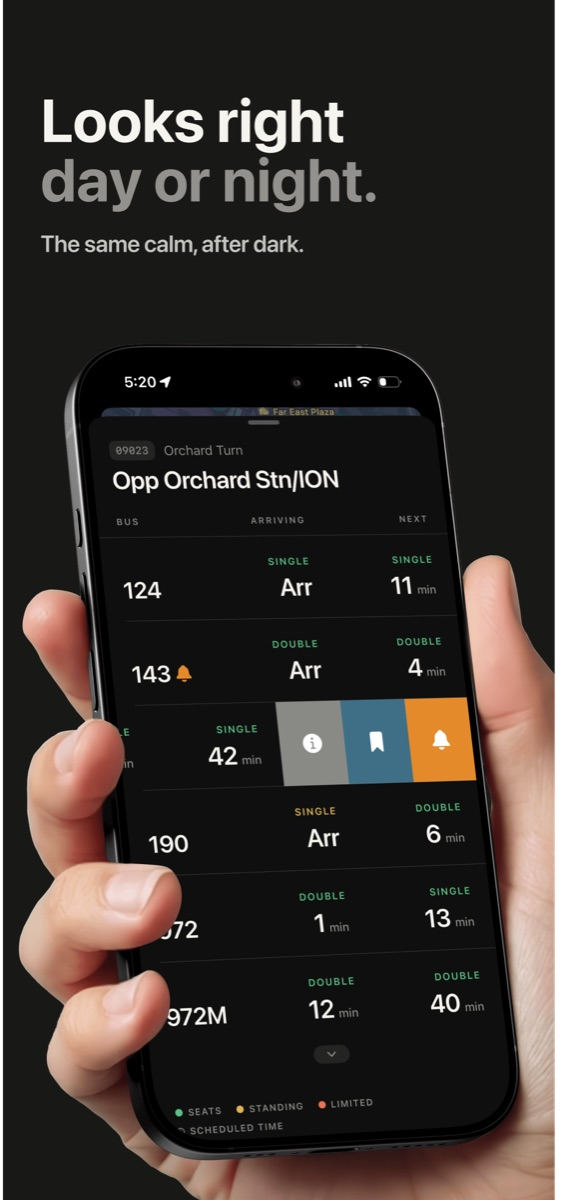
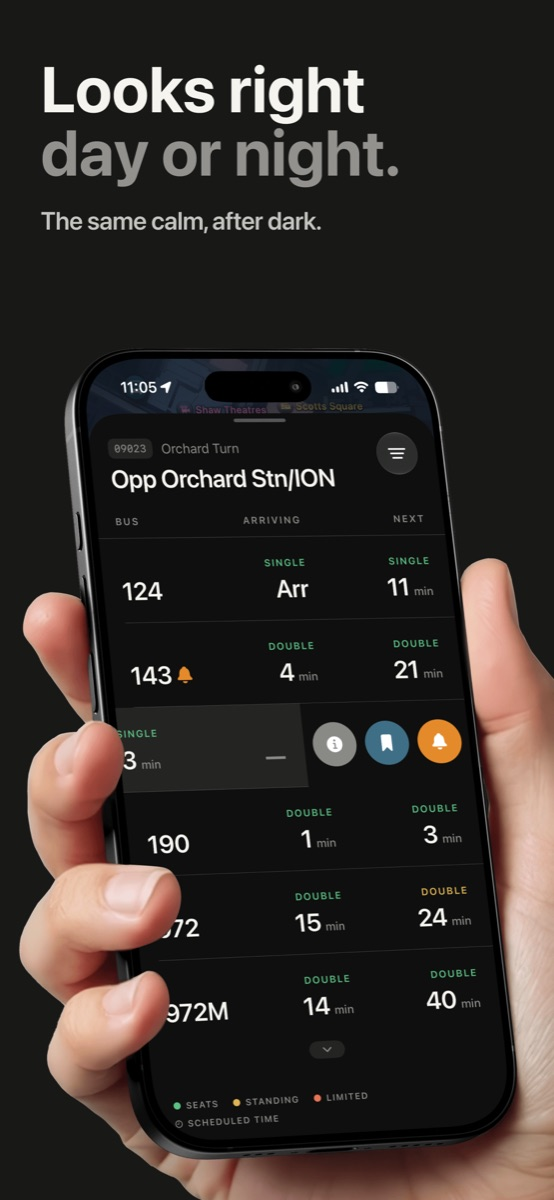
Refactor code structure for improved readability and maintainability

diff --git a/kongqi/index.html b/kongqi/index.html
@@ -3,29 +3,285 @@
 <head>
   <meta charset="UTF-8" />
   <meta name="viewport" content="width=device-width, initial-scale=1.0" />
-  <title>KongQi App</title>
+  <meta name="description" content="Singapore's haze readings, without the clutter. The latest PSI and PM2.5 for your part of Singapore, right on your Home Screen and Lock Screen." />
+  <title>KongQi – Singapore Air Quality</title>
   <link rel="icon" href="/kongqi/favicon.png" type="image/png" />
   <style>
-    html, body {
-      margin: 0;
-      padding: 0;
-      height: 100%;
-      overflow: hidden;
+    /* Tokens mirror jinhoe.com (assets/css/main.min.css) */
+    :root {
+      --c-bg: hsl(0, 0%, 100%);
+      --c-bg-light: hsl(0, 0%, 97%);
+      --c-tile: hsl(0, 0%, 89%);
+      --c-high: hsla(210, 100%, 60%, 0.3);
+      --c-high-light: hsla(210, 100%, 60%, 0.8);
+      --c-text: hsl(0, 0%, 25%);
+      --c-text-strong: hsl(0, 0%, 15%);
+      --c-text-mid: hsl(0, 0%, 35%);
+      --f-family: "Iowan Old Style", Palatino, "Palatino Linotype", "Palatino LT STD", Garamond, Baskerville, "Hoefler Text", "Times New Roman", serif;
+      --f-size: 16px;
+      --f-lineheight: 27px;
     }
 
-    iframe {
-      border: none;
-      width: 100%;
-      height: 100%;
+    @media (min-width: 500px) {
+      :root { --f-size: 17px; --f-lineheight: 32px; }
+    }
+
+    @media (min-width: 768px) {
+      :root { --f-size: 18px; --f-lineheight: 34px; }
+    }
+
+    @media (prefers-color-scheme: dark) {
+      :root {
+        --c-bg: hsl(0, 0%, 10%);
+        --c-bg-light: hsl(0, 0%, 15%);
+        --c-tile: hsl(0, 0%, 22%);
+        --c-text: hsl(0, 0%, 82%);
+        --c-text-strong: hsl(0, 0%, 92%);
+        --c-text-mid: hsl(0, 0%, 62%);
+      }
+    }
+
+    /* Like jinhoe.com, 1rem = one line of body text */
+    html {
+      font-size: var(--f-lineheight);
+    }
+
+    *,
+    *::before,
+    *::after {
+      box-sizing: border-box;
+      margin: 0;
+      padding: 0;
+      -webkit-font-smoothing: antialiased;
+      -moz-osx-font-smoothing: grayscale;
+    }
+
+    ::selection {
+      background: var(--c-high);
+    }
+
+    :focus-visible {
+      outline: 2px solid var(--c-high-light);
+      outline-offset: 2px;
+      border-radius: 2px;
+    }
+
+    body {
+      padding: 3rem 1rem 1.5rem;
+      background: var(--c-bg);
+      color: var(--c-text);
+      font-family: var(--f-family);
+      font-size: var(--f-size);
+      line-height: var(--f-lineheight);
+    }
+
+    main {
+      max-width: 640px;
+      margin: 0 auto;
+    }
+
+    a {
+      color: inherit;
+      text-decoration: none;
+      transition: color 300ms ease-out;
+    }
+
+    a:hover {
+      color: var(--c-text-mid);
+    }
+
+    h1,
+    h2 {
+      color: var(--c-text-strong);
+      font-weight: 600;
+    }
+
+    h1 {
+      font-size: calc(var(--f-size) * 1.6);
+      line-height: 1.3rem;
+    }
+
+    h2 {
+      font-size: calc(var(--f-size) * 1.3);
+      line-height: 1.3;
+      margin-bottom: 0.5rem;
+    }
+
+    section {
+      margin-top: 2.5rem;
+    }
+
+    section p + p {
+      margin-top: 0.5rem;
+    }
+
+    section ul {
+      padding-left: 1.25em;
+    }
+
+    /* Header */
+    .hero {
+      display: flex;
+      flex-wrap: wrap;
+      align-items: center;
+      gap: 24px;
+    }
+
+    .hero .icon {
+      flex: 0 0 112px;
+      width: 112px;
+      height: 112px;
+      border-radius: 25px;
+      background: var(--c-tile);
+    }
+
+    .hero .body {
+      flex: 1 1 280px;
+      min-width: 0;
+    }
+
+    .tagline {
+      color: var(--c-text-mid);
+    }
+
+    /* Screenshots: swipeable row */
+    .shots {
+      display: flex;
+      gap: 12px;
+      margin-top: 2.5rem;
+      overflow-x: auto;
+      scroll-snap-type: x mandatory;
+      scrollbar-width: none;
+      list-style: none;
+    }
+
+    .shots::-webkit-scrollbar {
+      display: none;
+    }
+
+    .shots li {
+      flex: 0 0 auto;
+      scroll-snap-align: start;
+    }
+
+    .shots img {
       display: block;
+      width: 180px;
+      height: auto;
+      aspect-ratio: 552 / 1200;
+      border-radius: 16px;
+      background: var(--c-bg-light);
+    }
+
+    .note {
+      color: var(--c-text-mid);
+      font-size: calc(var(--f-size) * 0.889);
+    }
+
+    .note a {
+      text-decoration: underline;
+      text-underline-offset: 3px;
+    }
+
+    /* App links + site footer */
+    .app-links {
+      display: flex;
+      flex-wrap: wrap;
+      gap: 24px;
+      margin-top: 3rem;
+    }
+
+    .app-links a {
+      display: inline-flex;
+      align-items: center;
+      min-height: 44px;
+    }
+
+    footer {
+      margin-top: 4rem;
+      text-align: center;
+    }
+
+    footer a {
+      margin: 0 0.5rem;
+      font-size: calc(var(--f-size) * 0.889);
+      line-height: 0.8rem;
     }
   </style>
 </head>
 <body>
-  <iframe
-    src="https://jinhoe.notion.site/ebd//3f645d68653180ee816ccf8648d78d86"
-    frameborder="0"
-    allowfullscreen
-  ></iframe>
+  <main>
+    <header class="hero">
+      <img class="icon" src="/kongqi/icon.png" alt="KongQi app icon" width="112" height="112" />
+      <div class="body">
+        <h1>KongQi</h1>
+        <p class="tagline">Singapore's haze readings, without the clutter.</p>
+      </div>
+    </header>
+
+    <ul class="shots" aria-label="Screenshots">
+      <li><img src="/kongqi/screenshots/1.jpg" alt="Singapore's air, at a glance. Hourly PSI and PM2.5 from NEA, for where you are." width="552" height="1200" /></li>
+      <li><img src="/kongqi/screenshots/2.jpg" alt="Right on your Home Screen. Your region, or wherever you are." width="552" height="1200" loading="lazy" /></li>
+      <li><img src="/kongqi/screenshots/3.jpg" alt="Even on your Lock Screen. Know before you step outside." width="552" height="1200" loading="lazy" /></li>
+      <li><img src="/kongqi/screenshots/4.jpg" alt="Five regions. Twenty-four hours. Tap any region to see its trend." width="552" height="1200" loading="lazy" /></li>
+      <li><img src="/kongqi/screenshots/5.jpg" alt="Easy on the eyes, day or night. Light, dark, or follow your iPhone." width="552" height="1200" loading="lazy" /></li>
+    </ul>
+
+    <section aria-label="About">
+      <p>Is it hazy today? See the latest PSI and PM2.5 for your part of Singapore at a glance, right on your Home Screen and Lock Screen.</p>
+      <p>KongQi shows the official 24-hour PSI and 1-hour PM2.5 for Singapore's five regions (North, South, East, West and Central), updated every hour. Open the app and you see the reading for where you are. Add a widget and you don't need to open the app at all.</p>
+    </section>
+
+    <section aria-labelledby="glance">
+      <h2 id="glance">At a glance</h2>
+      <ul>
+        <li>24-hour PSI and 1-hour PM2.5 for the region nearest you</li>
+        <li>Plain-language bands, the same ones NEA uses: Good, Moderate, Unhealthy, Very unhealthy, Hazardous</li>
+        <li>24-hour trend bars to see whether the air is getting better or worse</li>
+        <li>All five regions side by side in one table. Tap any region to see its trend</li>
+      </ul>
+    </section>
+
+    <section aria-labelledby="widgets">
+      <h2 id="widgets">Widgets</h2>
+      <ul>
+        <li>Home Screen widget with PSI and PM2.5 for your region</li>
+        <li>Lock Screen widget so you can check the air before you unlock your phone</li>
+        <li>Each widget can follow your location or stay on a region you choose. Keep one for home and one for the office</li>
+      </ul>
+    </section>
+
+    <section aria-labelledby="simple">
+      <h2 id="simple">Simple by design</h2>
+      <ul>
+        <li>One screen. No maps, no ads, no account</li>
+        <li>Colour is used only for air quality, so the reading stands out at a glance</li>
+        <li>Light and dark mode</li>
+        <li>Your location is used only on your device, to pick the nearest region</li>
+      </ul>
+    </section>
+
+    <section aria-label="Use cases">
+      <p>Useful when you're deciding whether to go for a run, open the windows, bring the kids to the playground, or reach for an N95 mask.</p>
+    </section>
+
+    <section aria-label="Data source">
+      <p class="note">Data: National Environment Agency (NEA), via <a href="https://data.gov.sg/">data.gov.sg</a>. KongQi is an independent app and is not affiliated with or endorsed by NEA or the Singapore Government. For health advice during haze episodes, refer to NEA's official guidance.</p>
+      <p class="note">KongQi (空气) means "air" in Mandarin.</p>
+    </section>
+
+    <nav class="app-links" aria-label="KongQi">
+      <a href="/kongqi/support/">Support</a>
+      <a href="/kongqi/privacy/">Privacy Policy</a>
+    </nav>
+
+    <footer>
+      <nav aria-label="Site">
+        <a href="https://jinhoe.com/">Home</a>
+        <a href="https://jinhoe.com/about">About</a>
+        <a href="https://app.jinhoe.com/">Apps</a>
+      </nav>
+    </footer>
+  </main>
 </body>
 </html>

diff --git a/zhebus/index.html b/zhebus/index.html
@@ -191,7 +191,7 @@
       display: block;
       width: 180px;
       height: auto;
-      aspect-ratio: 566 / 1200;
+      aspect-ratio: 554 / 1200;
       border-radius: 16px;
       background: var(--c-bg-light);
     }
@@ -313,12 +313,13 @@
     </header>
 
     <ul class="shots" aria-label="Screenshots">
-      <li><img src="/zhebus/screenshots/1.jpg" alt="Bus times. Right now. Live arrivals, bus type and seats, at a glance." width="566" height="1200" /></li>
-      <li><img src="/zhebus/screenshots/2.jpg" alt="Looks right day or night. The same calm, after dark." width="566" height="1200" loading="lazy" /></li>
-      <li><img src="/zhebus/screenshots/3.jpg" alt="Don't even unlock your phone. Your next bus, right on the Lock Screen." width="566" height="1200" loading="lazy" /></li>
-      <li><img src="/zhebus/screenshots/4.jpg" alt="Every stop. On a map you know. Tap a pin. See the next buses." width="566" height="1200" loading="lazy" /></li>
-      <li><img src="/zhebus/screenshots/5.jpg" alt="Search any stop. Any road. Every stop in Singapore. Found in seconds." width="566" height="1200" loading="lazy" /></li>
-      <li><img src="/zhebus/screenshots/6.jpg" alt="Know every stop ahead. The full route. Every connecting bus." width="566" height="1200" loading="lazy" /></li>
+      <li><img src="/zhebus/screenshots/1.jpg" alt="Bus times. Right now. Live arrivals, bus type and seats, at a glance." width="554" height="1200" /></li>
+      <li><img src="/zhebus/screenshots/2.jpg" alt="Looks right day or night. The same calm, after dark." width="554" height="1200" loading="lazy" /></li>
+      <li><img src="/zhebus/screenshots/3.jpg" alt="Don't even unlock your phone. Your next bus, right on the Lock Screen." width="554" height="1200" loading="lazy" /></li>
+      <li><img src="/zhebus/screenshots/4.jpg" alt="Which bus goes your way? Filter by destination. See only your buses." width="554" height="1200" loading="lazy" /></li>
+      <li><img src="/zhebus/screenshots/5.jpg" alt="Every stop. On a map you know. Tap a pin. See the next buses." width="554" height="1200" loading="lazy" /></li>
+      <li><img src="/zhebus/screenshots/6.jpg" alt="Search any stop. Any road. Every stop in Singapore. Found in seconds." width="554" height="1200" loading="lazy" /></li>
+      <li><img src="/zhebus/screenshots/7.jpg" alt="Know every stop ahead. The full route. Every connecting bus." width="554" height="1200" loading="lazy" /></li>
     </ul>
 
     <section aria-labelledby="about">
